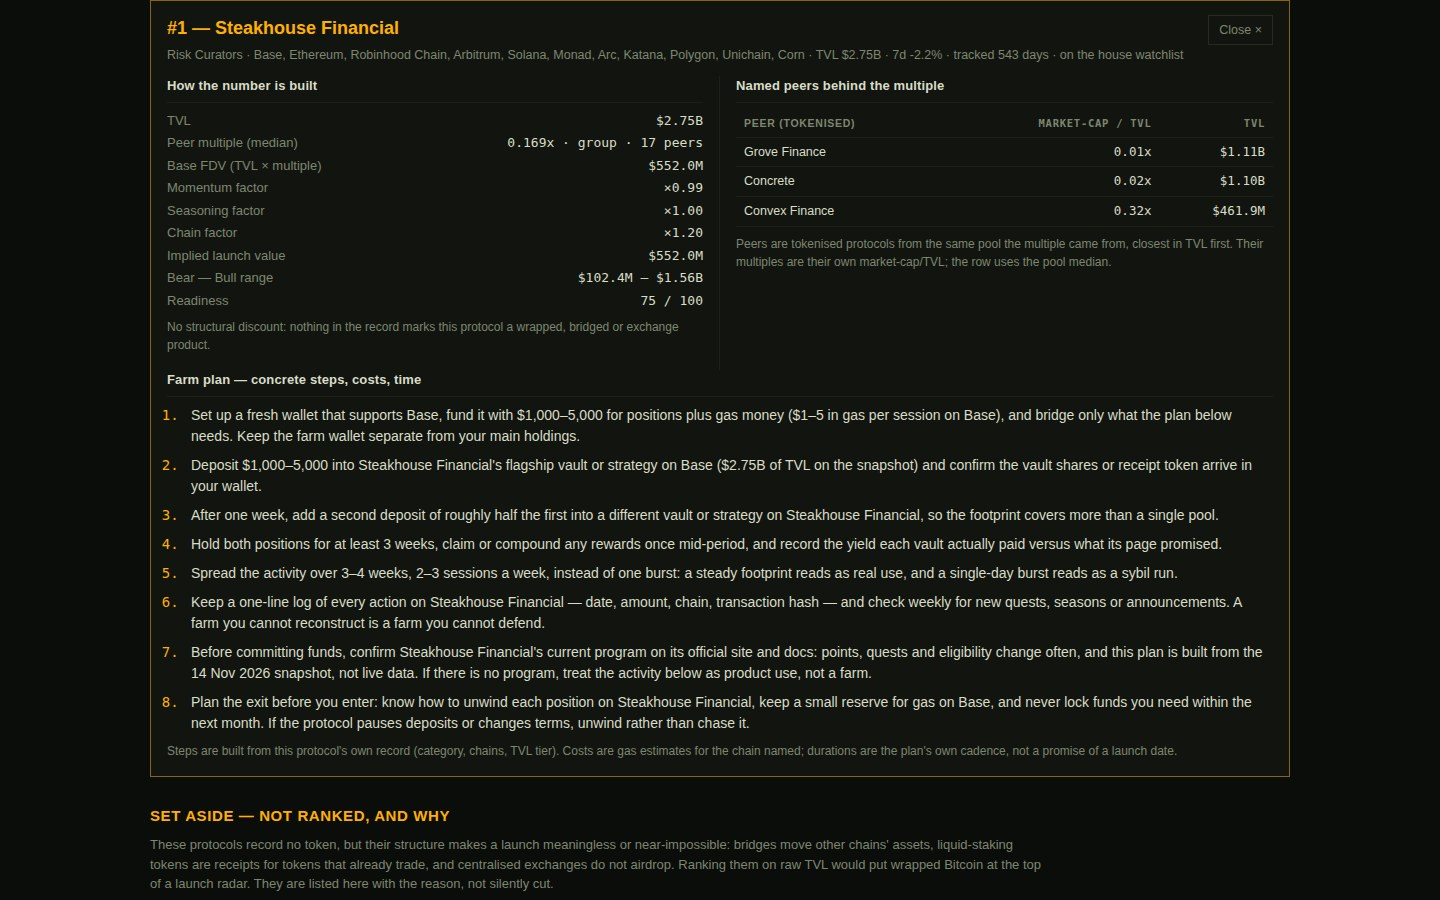
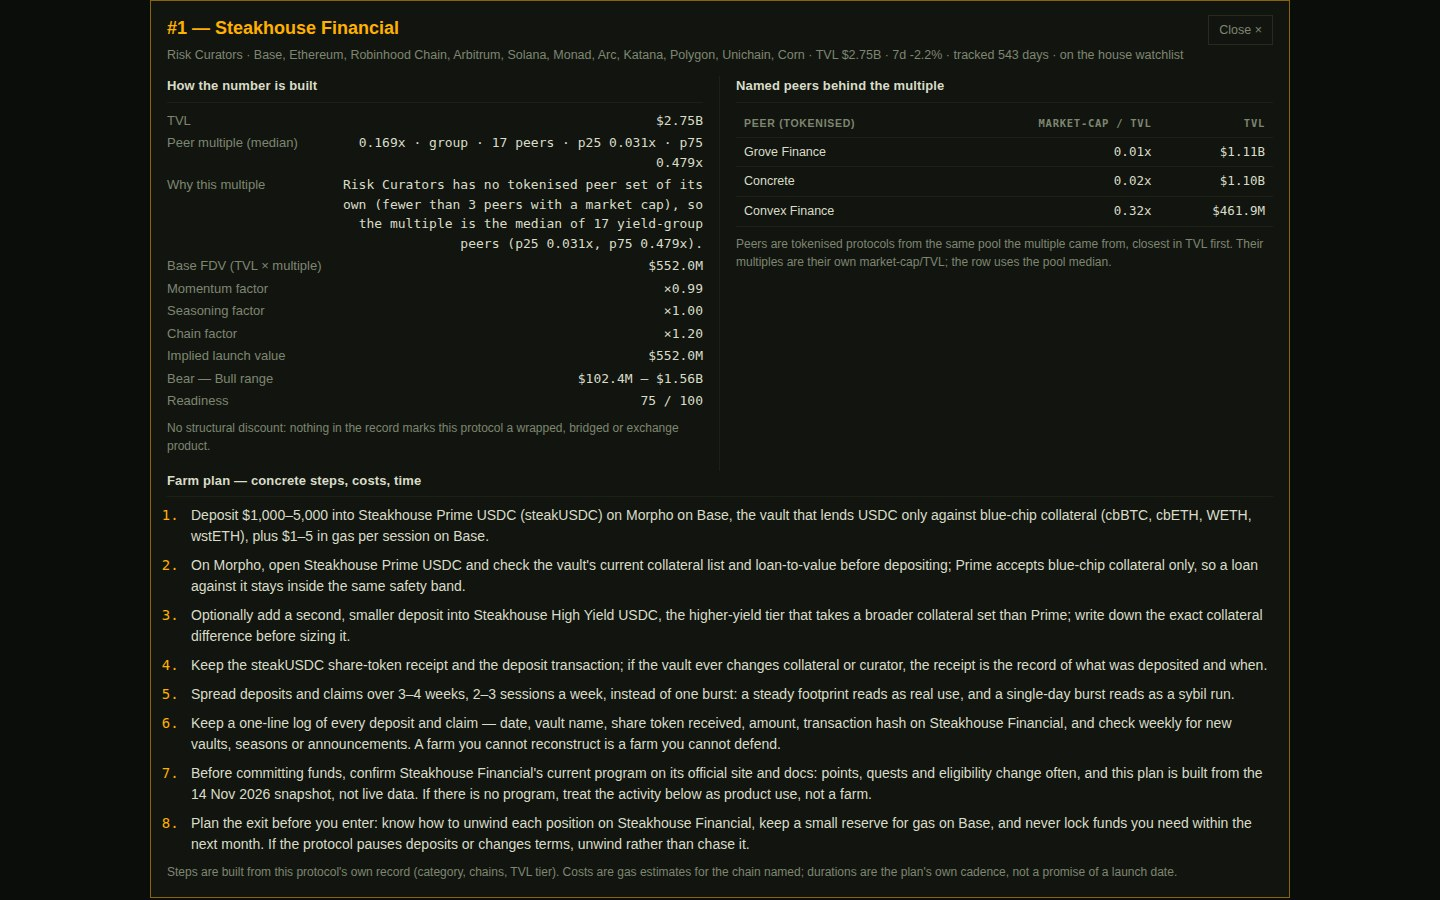
Sharpen entry within bounty rules: curated top-10 farm plans, per-row multiple notes, BitFi outlier note

Changed region(s): [[0.0938, 0.1556, 0.9062, 1.0], [0.1875, 0.1556, 0.2188, 0.1867]]

diff --git a/lib/model.ts b/lib/model.ts
@@ -24,6 +24,14 @@
 //      Nothing here claims a protocol HAS a points program or funding round; the
 //      farm plans say what to do on the protocol itself and tell the reader to verify
 //      the live program on the protocol's own docs before committing funds.
+//
+// Sharpening (24 Nov 2026, still snapshot-only): each row also carries a one-line
+// multiple_note naming the peer set behind its multiple and why that set was used,
+// so a repeated median is a documented method choice, not a stamped number. The
+// highest-ranked rows get curated farm plans (PRODUCT_PLANS below) that name the
+// real vault, market or mechanism — researched from the protocols' own docs and
+// listings in Nov 2026 and baked in as literal strings. No curated step claims a
+// points program, an APY, or a launch date the snapshot does not record.
 
 export interface Protocol {
   slug: string;
@@ -72,6 +80,9 @@ export interface BoardRow {
   bull_usd: number;
   multiple: number;
   multiple_level: 'category' | 'group' | 'global';
+  multiple_p25: number;
+  multiple_p75: number;
+  multiple_note: string;
   peer_count: number;
   peers: { name: string; multiple: number }[];
   plausibility: number;
@@ -268,6 +279,36 @@ function multipleSet(values: number[]): { median: number; p25: number; p75: numb
   return { median: median(s), p25: percentile(s, 0.25), p75: percentile(s, 0.75), n: s.length };
 }
 
+// One line per row, naming the peer set behind its multiple and why that set was
+// used. The point is that a repeated median (0.169x on several Risk Curator rows)
+// is a documented fallback, not a stamped number. An extreme outlier peer is
+// called out only for small category-level peer sets, where one peer is visible
+// enough to look like it stretches the range (the BitFi case: Bitway Earn at
+// 36.17x among 7 Basis Trading peers). With at least five peers the max never
+// sets the median or the p25/p75 range, so the note says so.
+function multipleNote(p: Protocol, m: MultipleSet, pool: Peer[]): string {
+  const med = Math.round(m.median * 1000) / 1000;
+  const p25 = Math.round(m.p25 * 1000) / 1000;
+  const p75 = Math.round(m.p75 * 1000) / 1000;
+  const cat = p.category ?? 'Uncategorised';
+  let note: string;
+  if (m.level === 'category') {
+    note = `Multiple is the median of ${m.n} tokenised ${cat} peers (p25 ${p25}x, p75 ${p75}x).`;
+  } else if (m.level === 'group') {
+    const g = GROUP_OF[cat] ?? 'infra';
+    note = `${cat} has no tokenised peer set of its own (fewer than 3 peers with a market cap), so the multiple is the median of ${m.n} ${g}-group peers (p25 ${p25}x, p75 ${p75}x).`;
+  } else {
+    note = `No category or group peer set, so the multiple is the median of ${m.n} tokenised protocols overall (p25 ${p25}x, p75 ${p75}x).`;
+  }
+  if (m.level === 'category' && m.n >= 5 && m.n <= 10 && pool.length > 0) {
+    const top = [...pool].sort((a, b) => b.multiple - a.multiple)[0]!;
+    if (top.multiple > 10 * m.p75) {
+      note += ` One peer, ${top.name} at ${Math.round(top.multiple * 100) / 100}x, is an extreme outlier far above the rest of the set; it does not move the median or the p25/p75 range.`;
+    }
+  }
+  return note;
+}
+
 export function buildRadar(snapshot: Snapshot): { board: BoardRow[]; radar: RadarData } {
   const watch = new Set(snapshot.watchlist);
   const tokenised = snapshot.protocols.filter((p) => p.gecko_id !== null || p.symbol !== null);
@@ -371,6 +412,9 @@ export function buildRadar(snapshot: Snapshot): { board: BoardRow[]; radar: Rada
       bull_usd: Math.max(1, Math.round(bull)),
       multiple: Math.round(m.median * 1000) / 1000,
       multiple_level: m.level,
+      multiple_p25: Math.round(m.p25 * 1000) / 1000,
+      multiple_p75: Math.round(m.p75 * 1000) / 1000,
+      multiple_note: multipleNote(p, m, compPool),
       peer_count: m.n,
       peers: named,
       plausibility: Math.round(plaus * 100) / 100,
@@ -399,7 +443,7 @@ export function buildRadar(snapshot: Snapshot): { board: BoardRow[]; radar: Rada
       set_aside: setAside.length,
       global_multiple: { median: Math.round(global.median * 1000) / 1000, p25: Math.round(global.p25 * 1000) / 1000, p75: Math.round(global.p75 * 1000) / 1000, peers: global.n },
       model_note:
-        'Implied value = TVL x the median market-cap/TVL multiple of tokenised peers in the same category (group, then whole field, where a category has fewer than 3 peers), adjusted for 7-day TVL momentum, seasoning since first tracked, and chain breadth. Protocols the house rule excludes (bridges, liquid-staking wrappers, CEX, versioned/wrapped names) are set aside, not ranked. Multiples use circulating market cap, not FDV, so values are a floor. Bear/base/bull use the 25th/median/75th peer multiples.',
+        'Implied value = TVL x the median market-cap/TVL multiple of tokenised peers in the same category (group, then whole field, where a category has fewer than 3 peers), adjusted for 7-day TVL momentum, seasoning since first tracked, and chain breadth. Protocols the house rule excludes (bridges, liquid-staking wrappers, CEX, versioned/wrapped names) are set aside, not ranked. Multiples use circulating market cap, not FDV, so values are a floor. Bear/base/bull use the 25th/median/75th peer multiples. Each row carries a multiple_note naming the peer set behind its multiple and why that set was used. Third-party pages report Extended’s XTEN token launching 30 Nov 2026, after this snapshot’s date; the board still ranks Extended from the 14 Nov snapshot, as the bounty requires.',
     },
     rows,
     comps: peers,
@@ -452,6 +496,117 @@ export function dataScript(radar: RadarData): string {
 // program on the protocol's own docs first, because this board is built from a
 // 14 Nov 2026 snapshot, not live data, and no plan here claims a points program
 // or an airdrop the snapshot does not record.
+//
+// The highest-ranked rows get curated plans (curatedPlan below) that name the
+// real vault, market or mechanism instead of a generic template. The cadence
+// and log steps also vary by category group, so the tail of every plan names
+// what that kind of protocol actually asks a user to record.
+
+// Curated farm plans for the highest-ranked rows. Each names the real product a
+// reader touches (vault, market, mechanism) instead of a generic "flagship vault".
+// Researched from the protocols' own docs and listings in Nov 2026 and baked in
+// here as literal strings; the program still reads nothing but the sealed snapshot.
+// Deliberately claims NO points program, NO APY, NO launch date the snapshot
+// does not record. Every plan is setup + three protocol-specific actions; the
+// shared verify-first and exit steps are appended by farmPlan below.
+interface CuratedPlan { setup: string; actions: string[]; }
+
+function curatedPlan(p: Protocol, size: string, chain: string, gas: string): CuratedPlan | null {
+  switch (p.slug) {
+    case 'steakhouse-financial':
+      return {
+        setup: `Deposit ${size} into Steakhouse Prime USDC (steakUSDC) on Morpho on ${chain}, the vault that lends USDC only against blue-chip collateral (cbBTC, cbETH, WETH, wstETH), plus ${gas}.`,
+        actions: [
+          `On Morpho, open Steakhouse Prime USDC and check the vault's current collateral list and loan-to-value before depositing; Prime accepts blue-chip collateral only, so a loan against it stays inside the same safety band.`,
+          `Optionally add a second, smaller deposit into Steakhouse High Yield USDC, the higher-yield tier that takes a broader collateral set than Prime; write down the exact collateral difference before sizing it.`,
+          `Keep the steakUSDC share-token receipt and the deposit transaction; if the vault ever changes collateral or curator, the receipt is the record of what was deposited and when.`,
+        ],
+      };
+    case 'polymarket-international':
+      return {
+        setup: `Fund ${size} on Polymarket on ${chain} with USDC; the site wraps it into pUSD, the ERC-20 balance token backed 1:1 by USDC/USDC.e, plus ${gas}.`,
+        actions: [
+          `Pick one market whose question and resolution source are plain to you (for example an election or a sports result), read its rules page, and place a small trade; keep most of the position in pUSD until the mechanics are familiar.`,
+          `Trade inside the markets themselves rather than holding a balance; note which markets have the deepest books, because thin books are where a fill costs more than the price shown.`,
+          `Do not touch Polymarket US unless you are a US user: it is a CFTC-regulated exchange with its own registration, and the international site is the one this entry tracks.`,
+        ],
+      };
+    case 'sentora-curator':
+      return {
+        setup: `Deposit ${size} into Sentora RLUSD Main on Morpho on ${chain}, the vault that lends against RLUSD with an audited curator review, plus ${gas}.`,
+        actions: [
+          `On Morpho, open Sentora RLUSD Main and confirm the vault's collateral list and its borrow cap; a small share of this vault's funds is withdrawable on demand, so check the current withdrawable amount before sizing a deposit.`,
+          `Optionally add a second deposit into Sentora PayPal USD Main, the other large vault in the same family (PYUSD collateral); compare the two vaults' collateral and withdrawable amounts side by side before choosing.`,
+          `Keep the Morpho vault share-token receipt and the deposit transaction; if Sentora ever changes the vault's curator or collateral, the receipt is the record of what was deposited and when.`,
+        ],
+      };
+    case 'gauntlet':
+      return {
+        setup: `Deposit ${size} into Gauntlet USDC Prime on Morpho on ${chain}, the blue-chip-only tier that lends against wstETH, cbBTC, wBTC and sDAI, plus ${gas}.`,
+        actions: [
+          `On Morpho, open Gauntlet USDC Prime and check the current collateral list and loan-to-value; Prime accepts blue-chip collateral only, so a loan against it stays inside the same safety band.`,
+          `Optionally step one tier up to Gauntlet USDC Core (listed as Balanced in newer docs), which adds PT tokens and sUSDe; write down the extra collateral accepted before sizing it, and keep the higher-yield Frontier tier (syrupUSDC, sdeUSD) for a separate, smaller deposit if you want it at all.`,
+          `Uniswap Earn routes into the Prime tier, so if you already use Uniswap Earn, check whether the same vault is available there before opening a second position.`,
+        ],
+      };
+    case 'veda':
+      return {
+        setup: `Deposit ${size} into a partner vault built on Veda's BoringVault infrastructure on ${chain}, for example the ether.fi Liquid vault, the Kraken DeFi Earn vault or the MetaMask Earn vault, plus ${gas}.`,
+        actions: [
+          `Open the partner vault's own page and check what it actually holds (liquid restaking tokens, stablecoins, or a mix); Veda is the vault infrastructure, not the vault itself, so the risk sits in the partner's strategy, not in a Veda flagship product.`,
+          `Compare two partner vaults side by side on the same page (assets held, withdrawal terms, fees) before choosing; do not deposit into a vault whose holdings you cannot name.`,
+          `Keep the vault share-token receipt and the deposit transaction; if the partner ever changes strategy or manager, the receipt is the record of what was deposited and when.`,
+        ],
+      };
+    case 'usdd':
+      return {
+        setup: `Mint ${size} of USDD 2.0 on ${chain} through the PSM (Peg Stability Module), which swaps USDT or USDC 1:1 with no fee, plus ${gas}.`,
+        actions: [
+          `Deposit the minted USDD into the sUSDD savings vault on the USDD site and check the current savings rate there; the vault, not the stablecoin itself, is where the yield comes from.`,
+          `Optionally open a USDD vault position with TRX or staked TRX as collateral and mint up to about half the liquidation line (liquidation sits below a 120% collateral ratio); write down the exact ratio before borrowing.`,
+          `Keep the PSM swap receipt and the vault deposit transaction; if USDD ever changes its peg mechanism or the Smart Allocator's backing, the receipts are the record of what was held and when.`,
+        ],
+      };
+    case 'hive-protocol':
+      return {
+        setup: `Bridge ${size} of BTC to ${chain} and stake it in the BSquared Hive vault, which stakes BTC to safeguard the B2 network and pays rewards in the B2 token, plus ${gas}.`,
+        actions: [
+          `On Hive's own site, check the bridge's status and the vault's current terms first, then bridge the BTC and stake it in the Hive vault; note the one-day unstaking lock, so do not stake funds needed sooner.`,
+          `Watch the B2 rewards the vault accrues and record how they are paid (token, cadence, claim or auto-compound); a reward that cannot be claimed or sold is not a return yet.`,
+          `Keep the bridge transaction and the staking receipt; if the bridge or the vault ever pauses, the receipts are the record of where the BTC went and when.`,
+        ],
+      };
+    case 'figure-markets-exchange':
+      return {
+        setup: `Open a Figure Markets account on ${chain} and deposit ${size} into YLDS, the SEC-registered yield-bearing stablecoin that accrues interest daily and pays monthly, plus ${gas}.`,
+        actions: [
+          `Complete the account and identity check first: YLDS is a registered security, not a permissionless vault token, so there is no way to hold it without an account; read the offering documents before depositing.`,
+          `Check the current yield on the YLDS page (it tracks the Secured Overnight Financing Rate minus 35 basis points) and confirm the daily accrual and monthly payment schedule in the account.`,
+          `Keep the account statement and the deposit receipt; YLDS is not a bank deposit and is not FDIC-insured, so the account record is the proof of what was held and when.`,
+        ],
+      };
+    case 'bitfi-basis':
+      return {
+        setup: `Deposit ${size} of USDT on ${chain} to mint bfUSD, BitFi's yield stablecoin, which is backed by delta-neutral positions held with the custodian Ceffu, plus ${gas}.`,
+        actions: [
+          `On the BitFi app, mint bfUSD with USDT and record the mint fee the app actually charged; the fee is not published publicly, so the number on screen is the only fee you will ever see.`,
+          `Optionally hold bfBTC, the yield-bearing BTC token from the same issuer, instead of or alongside bfUSD; compare the two tokens' backing and redemption terms on the BitFi site before choosing.`,
+          `Keep the mint receipt and the deposit transaction; BitFi lists no public audits on DefiLlama, so the receipt and a record of the custodian arrangement are the only proof of what was held and when.`,
+        ],
+      };
+    case 'extended-perps':
+      return {
+        setup: `Deposit ${size} of USDC into Extended on ${chain}, the Starknet hybrid perps exchange (formerly X10) that settles in USDC with no account or KYC, plus ${gas}.`,
+        actions: [
+          `Pick one market you can explain in a sentence (for example BTC, EUR/USD or gold; Extended lists 50+ markets including TradFi) and place a small trade with leverage well below the 100x maximum; keep most of the deposit in USDC until the order book and fees are familiar.`,
+          `Optionally deposit into the XVS vault, Extended's yield vault for USDC; check the vault's current terms on the Extended site and do not quote any APY figure from a third-party page, because the vault's rate is not verified here.`,
+          `Keep the deposit and trade receipts; Extended's settlement moved to the Arc chain in Oct 2026, so confirm which chain your funds actually settle on before depositing.`,
+        ],
+      };
+    default:
+      return null;
+  }
+}
 
 function primaryChain(p: Protocol): string {
   return p.chains.length > 0 ? p.chains[0]! : 'Ethereum';
@@ -465,12 +620,56 @@ function exitStep(p: Protocol): string {
   return `Plan the exit before you enter: know how to unwind each position on ${p.name}, keep a small reserve for gas on ${primaryChain(p)}, and never lock funds you need within the next month. If the protocol pauses deposits or changes terms, unwind rather than chase it.`;
 }
 
-function cadenceStep(): string {
-  return 'Spread the activity over 3–4 weeks, 2–3 sessions a week, instead of one burst: a steady footprint reads as real use, and a single-day burst reads as a sybil run.';
+function cadenceStep(group: string): string {
+  const activity =
+    group === 'trading'
+      ? 'the trades'
+      : group === 'credit'
+        ? 'the supply and borrow cycle'
+        : group === 'yield'
+          ? 'deposits and claims'
+          : group === 'staking'
+            ? 'the stake and any restaking'
+            : group === 'bridge'
+              ? 'the transfers'
+              : group === 'rwa'
+                ? 'the position and any redemptions'
+                : group === 'cex'
+                  ? 'the trades'
+                  : 'the activity';
+  return `Spread ${activity} over 3–4 weeks, 2–3 sessions a week, instead of one burst: a steady footprint reads as real use, and a single-day burst reads as a sybil run.`;
 }
 
-function trackStep(p: Protocol): string {
-  return `Keep a one-line log of every action on ${p.name} — date, amount, chain, transaction hash — and check weekly for new quests, seasons or announcements. A farm you cannot reconstruct is a farm you cannot defend.`;
+function trackStep(p: Protocol, group: string): string {
+  const what =
+    group === 'trading'
+      ? 'every trade — date, market, side, size, fill price, transaction hash'
+      : group === 'credit'
+        ? 'every supply, borrow and repayment — date, asset, amount, collateral ratio, transaction hash'
+        : group === 'yield'
+          ? 'every deposit and claim — date, vault name, share token received, amount, transaction hash'
+          : group === 'staking'
+            ? 'every stake, restake and claim — date, amount, receipt token, unstaking delay, transaction hash'
+            : group === 'bridge'
+              ? 'every bridge transfer — date, source and destination chain, amount, fee, arrival time, transaction hash'
+              : group === 'rwa'
+                ? 'every position and redemption — date, asset, amount, yield received, transaction hash'
+                : group === 'cex'
+                  ? 'every trade and earn position — date, market, size, fee, transaction or order id'
+                  : 'every action — date, amount, chain, transaction hash';
+  const watchFor =
+    group === 'trading'
+      ? 'new markets, seasons or announcements'
+      : group === 'credit' || group === 'yield'
+        ? 'new vaults, seasons or announcements'
+        : group === 'staking'
+          ? 'new options, seasons or announcements'
+          : group === 'bridge'
+            ? 'new routes, seasons or announcements'
+            : group === 'rwa'
+              ? 'new offerings, seasons or announcements'
+              : 'new products or announcements';
+  return `Keep a one-line log of ${what} on ${p.name}, and check weekly for ${watchFor}. A farm you cannot reconstruct is a farm you cannot defend.`;
 }
 
 function farmPlan(p: Protocol, m: MultipleSet): string[] {
@@ -483,10 +682,14 @@ function farmPlan(p: Protocol, m: MultipleSet): string[] {
   const tvlNote = `${money(p.tvl_usd)} of TVL on the snapshot`;
   const steps: string[] = [];
 
-  const setup = `Set up a fresh wallet that supports ${chain}, fund it with ${size} for positions plus gas money (${gas}), and bridge only what the plan below needs. Keep the farm wallet separate from your main holdings.`;
-  steps.push(setup);
+  const curated = curatedPlan(p, size, chain, gas);
+  if (curated !== null) {
+    steps.push(curated.setup, ...curated.actions);
+  } else {
+    const setup = `Set up a fresh wallet that supports ${chain}, fund it with ${size} for positions plus gas money (${gas}), and bridge only what the plan below needs. Keep the farm wallet separate from your main holdings.`;
+    steps.push(setup);
 
-  switch (group) {
+    switch (group) {
     case 'trading': {
       steps.push(`Swap a small amount through ${name} on ${chain} first — a $50–150 test trade — and confirm the quote, slippage and receipt land as expected before sizing up.`);
       steps.push(`Provide liquidity or trade again in the same pool on ${name} at least twice more across the next two weeks, using varied sizes so the activity looks like a trader's, not a script's.`);
@@ -548,10 +751,11 @@ function farmPlan(p: Protocol, m: MultipleSet): string[] {
       steps.push(`If ${name} has a community channel or governance forum, read its latest updates once a week: infrastructure launches are announced there first, not on price charts.`);
       break;
     }
+    }
   }
 
-  steps.push(cadenceStep());
-  steps.push(trackStep(p));
+  steps.push(cadenceStep(group));
+  steps.push(trackStep(p, group));
   steps.push(verifyStep(p));
   steps.push(exitStep(p));
   return steps.slice(0, 8);

diff --git a/dashboard/index.html b/dashboard/index.html
@@ -108,7 +108,7 @@
       </div>
       <div>
         <h3>Source</h3>
-        <p>DefiLlama protocols endpoint, fetched 14 Nov 2026, frozen since. 758 protocols at or above $5M TVL; 342 record no token; 198 are launchable and ranked here; 144 are set aside above. Board data: <span class="mono">board.json</span>. This page reads <span class="mono">data.js</span> and works with no network.</p>
+        <p>DefiLlama protocols endpoint, fetched 14 Nov 2026, frozen since. 758 protocols at or above $5M TVL; 342 record no token; 198 are launchable and ranked here; 144 are set aside above. Third-party pages report Extended's XTEN token launching 30 Nov 2026, after this snapshot's date; the board still ranks Extended from the 14 Nov snapshot, as the bounty requires. Board data: <span class="mono">board.json</span>. This page reads <span class="mono">data.js</span> and works with no network.</p>
       </div>
     </div>
   </section>

diff --git a/dashboard/app.js b/dashboard/app.js
@@ -101,7 +101,8 @@
     var chf = 1 + 0.02 * Math.min(Math.max(r.chains.length - 1, 0), 10);
     $('dMath').innerHTML =
       '<dt>TVL</dt><dd>' + money(r.tvl_usd) + '</dd>' +
-      '<dt>Peer multiple (median)</dt><dd>' + r.multiple + 'x · ' + r.multiple_level + ' · ' + r.peer_count + ' peers</dd>' +
+      '<dt>Peer multiple (median)</dt><dd>' + r.multiple + 'x · ' + r.multiple_level + ' · ' + r.peer_count + ' peers' + (r.multiple_p25 !== undefined ? ' · p25 ' + r.multiple_p25 + 'x · p75 ' + r.multiple_p75 + 'x' : '') + '</dd>' +
+      (r.multiple_note ? '<dt>Why this multiple</dt><dd>' + esc(r.multiple_note) + '</dd>' : '') +
       '<dt>Base FDV (TVL × multiple)</dt><dd>' + money(r.base_fdv_usd) + '</dd>' +
       '<dt>Momentum factor</dt><dd>×' + mom.toFixed(2) + '</dd>' +
       '<dt>Seasoning factor</dt><dd>×' + sea.toFixed(2) + '</dd>' +

diff --git a/README.md b/README.md
@@ -6,7 +6,7 @@
 
 A radar for token launches that have not happened yet. It reads a sealed snapshot of every protocol DefiLlama tracks (758 protocols, 14 Nov 2026), finds the ones with no token, and ranks them by what a launch would be worth — not by raw TVL, but by the market-cap/TVL multiple of tokenised peers in the same category, adjusted for 7-day momentum, seasoning, and chain breadth, with a bear/base/bull range instead of one fake-precise number.
 
-The point the ranking turns on: the obvious giants are not launchable. Wrapped Bitcoin, the big bridges, the liquid-staking receipts and the centralised exchanges hold most of the pre-token TVL, and a "launch" for them is meaningless — so this entry sets 144 of them aside with the reason stated, and ranks the remaining 198. The top of the board is Steakhouse Financial ($552M implied), Polymarket International ($516M) and Sentora Curator ($481M) — risk curators and a prediction market, not the wrapped assets every TVL-sorted list returns. Every row shows the multiple used, the named peers behind it, and a farm plan built from that protocol's own record (category, chains, TVL tier, gas cost, cadence, exit) — never a repeated generic step.
+The point the ranking turns on: the obvious giants are not launchable. Wrapped Bitcoin, the big bridges, the liquid-staking receipts and the centralised exchanges hold most of the pre-token TVL, and a "launch" for them is meaningless — so this entry sets 144 of them aside with the reason stated, and ranks the remaining 198. The top of the board is Steakhouse Financial ($552M implied), Polymarket International ($516M) and Sentora Curator ($481M) — risk curators and a prediction market, not the wrapped assets every TVL-sorted list returns. Every row shows the multiple used, the named peers behind it, and a farm plan built from that protocol's own record (category, chains, TVL tier, gas cost, cadence, exit) — never a repeated generic step. Each row also carries a one-line note saying why that multiple was used (peer-set size, fallback level, 25th/75th percentiles), and the top rows' farm plans name the real vault, market or mechanism instead of a generic template.
 
 ## Run it
 
